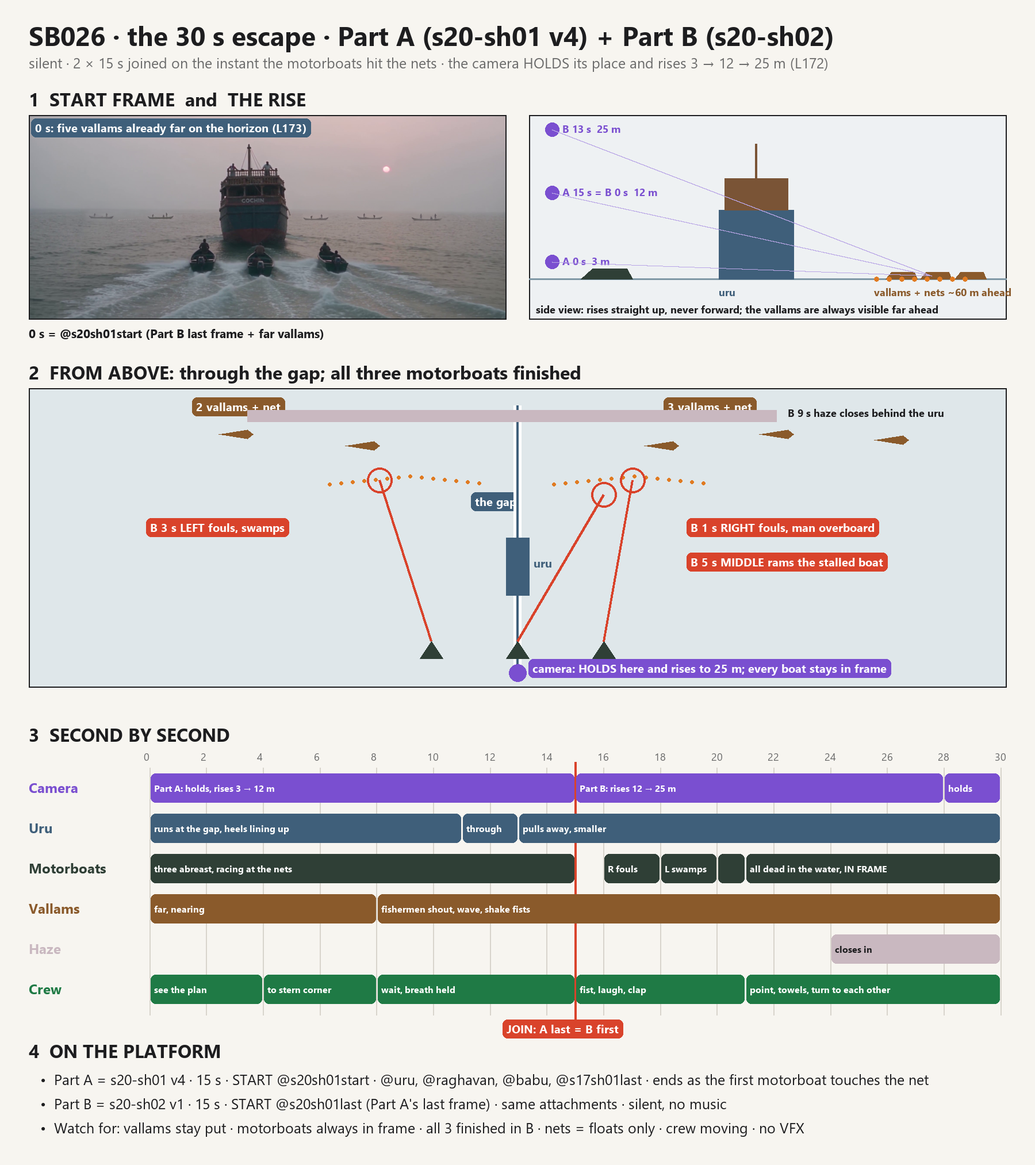
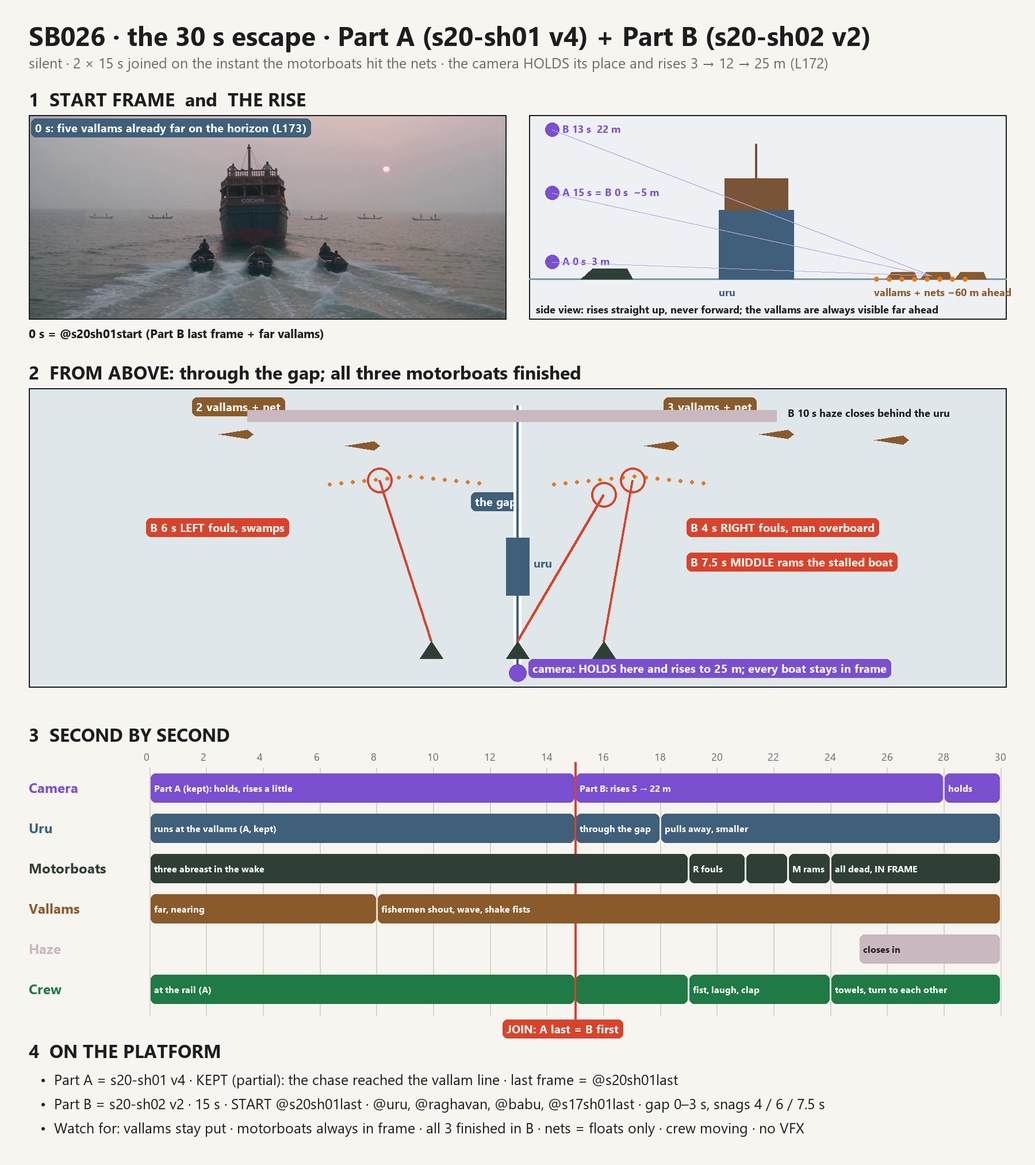
Ranjith: shot: s20-sh02 v2 (Part B fitted to Part A's last frame: gap 0-3 s, snags 4/6/7.5 s)

diff --git a/tools/shotsheets/s20-run-30s.py b/tools/shotsheets/s20-run-30s.py
@@ -10,7 +10,7 @@ def tag(xy, text, col, f=None):
     f = f or F(20, True); x, y = xy; tw = d.textlength(text, font=f)
     d.rounded_rectangle([x - 6, y - 4, x + tw + 8, y + 28], 8, fill=col); d.text((x + 1, y - 2), text, font=f, fill="white")
 
-d.text((50, 30), "SB026 · the 30 s escape · Part A (s20-sh01 v4) + Part B (s20-sh02)", font=F(46, True), fill=INK)
+d.text((50, 30), "SB026 · the 30 s escape · Part A (s20-sh01 v4) + Part B (s20-sh02 v2)", font=F(46, True), fill=INK)
 d.text((50, 92), "silent · 2 × 15 s joined on the instant the motorboats hit the nets · the camera HOLDS its place and rises 3 → 12 → 25 m (L172)", font=F(25), fill=GREY)
 
 # 1 start frame + side view of the rise-over reveal
@@ -31,7 +31,7 @@ d.rectangle([sx + 330, sea - 120, sx + 460, sea], fill=URU); d.rectangle([sx + 3
 d.line([sx + 395, sea - 175, sx + 395, sea - 235], fill="#7a5436", width=4)
 for k in range(3): d.polygon([(sx + 620 + k * 60, sea), (sx + 630 + k * 60, sea - 12), (sx + 670 + k * 60, sea - 12), (sx + 675 + k * 60, sea)], fill=VAL)
 for k in range(8): d.ellipse([sx + 600 + k * 22, sea - 4, sx + 608 + k * 22, sea + 4], fill=NET)
-for (cx, cy, lab) in [(sx + 40, sea - 30, "A 0 s  3 m"), (sx + 40, sea - 150, "A 15 s = B 0 s  12 m"), (sx + 40, sea - 260, "B 13 s  25 m")]:
+for (cx, cy, lab) in [(sx + 40, sea - 30, "A 0 s  3 m"), (sx + 40, sea - 150, "A 15 s = B 0 s  ~5 m"), (sx + 40, sea - 260, "B 13 s  22 m")]:
     d.ellipse([cx - 12, cy - 12, cx + 12, cy + 12], fill=CAM); d.text((cx + 18, cy - 14), lab, font=F(18, True), fill=CAM)
     d.line([cx, cy, sx + 700, sea - 6], fill="#b9a6e6", width=2)
 d.text((sx + 12, sy + sh - 30), "side view: rises straight up, never forward; the vallams are always visible far ahead", font=F(18, True), fill=INK)
@@ -54,26 +54,26 @@ tag((cx - 75, my + 185), "the gap", URU)
 d.line([(cx, my + mh - 30), (cx, my + 30)], fill="#ffffff", width=14); d.line([(cx, my + mh - 30), (cx, my + 30)], fill=URU, width=4)
 d.rectangle([cx - 20, my + 260, cx + 20, my + 360], fill=URU); d.text((cx + 28, my + 290), "uru", font=F(20, True), fill=URU)
 # three motorboats abreast and where they end
-for bx, ex, ey, lab, t_ in [(cx - 150, cx - 240, my + 160, "B 3 s LEFT fouls, swamps", (cx - 640, my + 230)),
-                            (cx + 150, cx + 200, my + 160, "B 1 s RIGHT fouls, man overboard", (cx + 300, my + 230)),
-                            (cx, cx + 150, my + 185, "B 5 s MIDDLE rams the stalled boat", (cx + 300, my + 290))]:
+for bx, ex, ey, lab, t_ in [(cx - 150, cx - 240, my + 160, "B 6 s LEFT fouls, swamps", (cx - 640, my + 230)),
+                            (cx + 150, cx + 200, my + 160, "B 4 s RIGHT fouls, man overboard", (cx + 300, my + 230)),
+                            (cx, cx + 150, my + 185, "B 7.5 s MIDDLE rams the stalled boat", (cx + 300, my + 290))]:
     d.polygon([(bx - 20, my + 470), (bx, my + 440), (bx + 20, my + 470)], fill=MOT)
     d.line([(bx, my + 440), (ex, ey)], fill=JOIN, width=4); d.ellipse([ex - 22, ey - 22, ex + 22, ey + 22], outline=JOIN, width=4)
     tag(t_, lab, JOIN)
 d.rectangle([mx + 380, my + 38, mx + 1300, my + 58], fill=HAZE)
-d.text((mx + 1320, my + 30), "B 9 s haze closes behind the uru", font=F(18, True), fill=INK)
+d.text((mx + 1320, my + 30), "B 10 s haze closes behind the uru", font=F(18, True), fill=INK)
 d.ellipse([cx - 15, my + mh - 40, cx + 15, my + mh - 10], fill=CAM); tag((cx + 25, my + mh - 45), "camera: HOLDS here and rises to 25 m; every boat stays in frame", CAM)
 
 # 3 timeline
 y2 = my + mh + 60
 d.text((50, y2), "3  SECOND BY SECOND", font=F(32, True), fill=INK)
 tx, tw_ = 260, 1480; ty = y2 + 80; S = 30
-rows = [("Camera", CAM, [(0, 15, "Part A: holds, rises 3 → 12 m"), (15, 28, "Part B: rises 12 → 25 m"), (28, 30, "holds")]),
-        ("Uru", URU, [(0, 11, "runs at the gap, heels lining up"), (11, 13, "through"), (13, 30, "pulls away, smaller")]),
-        ("Motorboats", MOT, [(0, 15, "three abreast, racing at the nets"), (16, 18, "R fouls"), (18, 20, "L swamps"), (20, 21, "M rams"), (21, 30, "all dead in the water, IN FRAME")]),
+rows = [("Camera", CAM, [(0, 15, "Part A (kept): holds, rises a little"), (15, 28, "Part B: rises 5 → 22 m"), (28, 30, "holds")]),
+        ("Uru", URU, [(0, 15, "runs at the vallams (A, kept)"), (15, 18, "through the gap"), (18, 30, "pulls away, smaller")]),
+        ("Motorboats", MOT, [(0, 19, "three abreast in the wake"), (19, 21, "R fouls"), (21, 22.5, "L swamps"), (22.5, 24, "M rams"), (24, 30, "all dead, IN FRAME")]),
         ("Vallams", VAL, [(0, 8, "far, nearing"), (8, 30, "fishermen shout, wave, shake fists")]),
-        ("Haze", HAZE, [(24, 30, "closes in")]),
-        ("Crew", "#1f7a45", [(0, 4, "see the plan"), (4, 8, "to stern corner"), (8, 15, "wait, breath held"), (15, 21, "fist, laugh, clap"), (21, 30, "point, towels, turn to each other")])]
+        ("Haze", HAZE, [(25, 30, "closes in")]),
+        ("Crew", "#1f7a45", [(0, 15, "at the rail (A)"), (15, 19, "stern corner, breath held"), (19, 24, "fist, laugh, clap"), (24, 30, "towels, turn to each other")])]
 xj = tx + tw_ * 15 / S
 for sec in range(0, 31, 2):
     x = tx + tw_ * sec / S; d.line([x, ty, x, ty + 70 * len(rows) + 10], fill="#d8d4cc", width=2); d.text((x - 10, ty - 32), f"{sec}", font=F(18), fill=GREY)
@@ -89,8 +89,8 @@ for i, (lab, col, segs) in enumerate(rows):
 # 4 platform
 y3 = ty + 70 * len(rows) + 50
 d.text((50, y3), "4  ON THE PLATFORM", font=F(32, True), fill=INK)
-lines = ["Part A = s20-sh01 v4 · 15 s · START @s20sh01start · @uru, @raghavan, @babu, @s17sh01last · ends as the first motorboat touches the net",
-         "Part B = s20-sh02 v1 · 15 s · START @s20sh01last (Part A's last frame) · same attachments · silent, no music",
+lines = ["Part A = s20-sh01 v4 · KEPT (partial): the chase reached the vallam line · last frame = @s20sh01last",
+         "Part B = s20-sh02 v2 · 15 s · START @s20sh01last · @uru, @raghavan, @babu, @s17sh01last · gap 0–3 s, snags 4 / 6 / 7.5 s",
          "Watch for: vallams stay put · motorboats always in frame · all 3 finished in B · nets = floats only · crew moving · no VFX"]
 for i, t in enumerate(lines): d.text((70, y3 + 55 + i * 42), "•  " + t, font=F(25), fill=INK)
 im = im.crop((0, 0, W, y3 + 55 + len(lines) * 42 + 40))

diff --git a/scenes/showreel/s20-sh02.md b/scenes/showreel/s20-sh02.md
@@ -1,6 +1,7 @@
-# s20-sh02 · SB026 (Ref 20) — Clear of pursuit, PART B of the 30 s escape: the motorboats are finished (silent) · 15 s · v1
-Status: **ready (Ranjith, 2026-11-23)** · silent · starts on Part A's last frame `@s20sh01last` (saved when Part A is generated)
+# s20-sh02 · SB026 (Ref 20) — Clear of pursuit, PART B of the 30 s escape: the motorboats are finished (silent) · 15 s · v2
+Status: **ready (Ranjith, 2026-11-23)** · silent · starts on Part A's last frame `@s20sh01last` (`approved/sb026-clear/s20-sh01-last.png`)
 Created by: Ranjith
+v2 (Ranjith, 2026-11-23): fitted to Part A's real last frame (`@s20sh01last`): Part A ended with the uru only reaching the vallam line, about 5 m up, the motorboats still in its wake; so Part B now opens with the uru threading the gap (0–3 s), then the three snags at 4 s, 6 s and 7.5 s, all three dead in the water from 9 s, haze from 10 s; the camera rises 5 m → 22 m.
 30 s run (Ranjith, 2026-11-23, "Make it 2 × 15 s"): Part A = `s20-sh01.md` v4 (the run at the nets; ends as the right-hand motorboat's bow touches its float line); Part B = this file: the right-hand motorboat fouls and a man goes overboard, the left-hand one swamps, the middle one rams the stalled boat; all three lie dead in the water and cannot follow (Ranjith: "they should sink or they should fall, so that they dont come back and follow"); the uru pulls away into the haze.
 Camera (Ranjith: "Use this camera move"): the same hold-and-rise continued from Part A, 12 m → 25 m, 28mm, never forward (L172).
 Scene emotion: none (silent shot).
@@ -10,41 +11,41 @@ Left out: `@antony20`, `@aashaan` (not visible from astern and above).
 Attach folder: `scenes/showreel/attach/s20-sh02/`
 Storyboard: `scenes/showreel/storyboards/s20-run-30s-clear.png` (never attached)
 Next: the SB026 dialogue, s20-sh03 to s20-sh06.
-Edit note (music): the chase score peaks on the first snag at about 1 s and falls away into the haze.
+Edit note (music): the chase score peaks on the first snag at about 4 s and falls away into the haze.
 
 ## Prompt
 ```text
 SCENE CONTEXT
-Dawn, 1998, open sea in Sri Lankan waters, the instant after the uru has slipped through the narrow gap between the fishermen's nets. The three motorboats chasing it, three abreast and too wide for the gap, hit the nets at full speed and are finished one after another, in plain sight: their propellers foul, their engines die, one is swamped and settles low in the water, a man is thrown into the sea, one rams another. They lie dead in the water and cannot follow. The uru pulls away and the haze closes behind it. One continuous shot, 15 seconds, starting exactly on the start frame. No one speaks.
+Dawn, 1998, open sea in Sri Lankan waters. The uru, three motorboats close in its wake, has reached the line of five fishing vallams with their nets out, two to the left and three to the right. In the first seconds the uru threads the narrow gap between the net ends; the three motorboats, three abreast and too wide for the gap, hit the nets at full speed and are finished one after another, in plain sight: their propellers foul, their engines die, one is swamped and settles low in the water, a man is thrown into the sea, one rams another. They lie dead in the water and cannot follow. The uru pulls away and the haze closes behind it. One continuous shot, 15 seconds, starting exactly on the start frame. No one speaks.
 
 MEMORY
 Place: the open sea at dawn, calm grey-pink with a low swell, the horizon level and hazy; a dull round red sun low at the right.
-The uru: our uru, seen from behind and above, just through the gap and pulling away: the weathered blue-grey hull with the rust-red lower hull, COCHIN in white on the dark band across the stern, the carved two-level deckhouse with its turned-post balustrade and small top deck, one mast with its stays; it sits low and heavy, its propeller and rudder under the water; about three motorboat lengths long.
-The motorboats: exactly three open motorboats, about 8 m long, dark hulls, one outboard engine each, two men in each, three abreast behind the uru, at the float lines.
-The vallams and nets: exactly five small wooden fishing vallams, plain open canoes about 9 m long with no frames, no poles and no masts, two or three fishermen standing in each, two to the left and three to the right of the gap the uru has just passed; from each a flat drift net lies in the water, seen only as a curved line of small white and orange floats. No lift nets, no frames. They stay where they are.
-People: Raghavan and Babu at the stern corner of the uru's top-deck rail, small, leaning out and looking back; the men in the motorboats; the fishermen in the vallams.
-Light: hazy pink-grey dawn, soft daylight about 5800K, the low red sun; from about 9s a low bank of white-pink haze drifting across the sea.
-FIRST FRAME (0.0s): exactly the start frame, the instant Part A ends: seen from about 12 m up behind the motorboats, the uru just through the gap between the net ends, Raghavan and Babu leaning out at the stern corner of the top-deck rail, the three motorboats three abreast at the float lines, the right-hand one's bow touching its float line, the five vallams with their fishermen on either side of the gap.
+The uru: our uru, seen from behind and above, at the gap and then pulling away: the weathered blue-grey hull with the rust-red lower hull, COCHIN in white on the dark band across the stern, the carved two-level deckhouse with its turned-post balustrade and small top deck, one mast with its stays; it sits low and heavy, its propeller and rudder under the water; about three motorboat lengths long.
+The motorboats: exactly three open motorboats, about 8 m long, dark hulls, one outboard engine each, two men in each, three abreast about 15 m behind the uru, in its wake.
+The vallams and nets: exactly five small wooden fishing vallams, plain open canoes about 9 m long with no frames, no poles and no masts, two or three fishermen standing in each, two to the left and three to the right, level with the uru's stern in the start frame; from each a flat drift net lies in the water, seen only as a curved line of small white and orange floats reaching across toward the uru's course, faint in the start frame and clearer as the boats reach them; the gap between the nearest net ends is only a little wider than the uru. No lift nets, no frames. They stay where they are.
+People: Raghavan and Babu at the uru's top-deck rail, small, looking back at the motorboats; the men in the motorboats; the fishermen in the vallams.
+Light: hazy pink-grey dawn, soft daylight about 5800K, the low red sun; from about 10s a low bank of white-pink haze drifting across the sea.
+FIRST FRAME (0.0s): exactly the start frame, the instant Part A ends: seen from about 5 m up behind the motorboats, the uru's stern with COCHIN in the middle, Raghavan and Babu at the top-deck rail, the three motorboats three abreast in its wake in the lower half, the five vallams on either side of the uru, two left and three right, with faint float lines, the red sun at the right.
 
 ACTIVE REFERENCES
-@s20sh01last (start frame, 0.0s): the exact first frame, the last frame of Part A: the uru just through the gap, the three motorboats at the float lines, the five vallams either side, Raghavan and Babu at the stern corner of the rail, the hazy pink-grey sea. Everything starts exactly as in this image.
+@s20sh01last (start frame, 0.0s): the exact first frame, the last frame of Part A: the uru from astern with COCHIN on the stern, Raghavan and Babu at the top-deck rail, the three motorboats three abreast in its wake, the five vallams either side of it (two left, three right) with faint float lines, the hazy pink-grey sea and the low red sun at the right. Everything starts exactly as in this image, and the vallams stay where they are.
 @uru (full, 0.0s–15.0s): our uru exactly as on this sheet: the weathered blue-grey wooden hull with rust streaks, the rust-red lower hull, the carved two-level deckhouse with turned-post balustrades and the small top deck, one mast, the dark blue band with COCHIN on the stern; about three motorboat lengths long, never bigger; its propeller and rudder under the water. 100% matches the reference.
-@raghavan (full, 0.0s–15.0s): Raghavan at the stern corner of the top-deck rail, the left of the two, small in the frame: wiry, about 60, grey hair, white vest, the red-and-white checked towel round his neck. 100% matches the reference.
+@raghavan (full, 0.0s–15.0s): Raghavan at the top-deck rail, the left of the two, small in the frame: wiry, about 60, grey hair, white vest, the red-and-white checked towel round his neck. 100% matches the reference.
 @babu (full, 0.0s–15.0s): Babu beside him, the right of the two, small in the frame: heavy-set, about 40, the red-and-white checked towel tied on his head, off-white half-sleeve shirt. 100% matches the reference.
 @s17sh01last (reference for continuity, 0.0s–15.0s): the approved chase frame: the open motorboats with two men each, the calm hazy pink-grey sea and the round red sun. Take the boats, the men, the sea and the light from it, not its camera angle. 100% matches the reference.
 
 THE MOTORBOATS ARE FINISHED (most important)
-All three motorboats are put out of the chase for good, in plain sight, the uru, the motorboats and the vallams all in frame together. At 1.0s the right-hand motorboat runs over its float line: its propeller wraps in the net with a burst of white water, the engine chokes and dies, the boat slews sideways and stops dead, and one of its two men is thrown over the side into the sea, surfacing and grabbing the gunwale. At 3.0s the left-hand motorboat cuts across the left-hand float line: its propeller fouls, the engine dies, the boat stops so hard that its low stern dips under and the sea pours in over the transom; it settles low in the water, half swamped, its two men bailing with their hands. At 5.0s the middle motorboat, swerving to miss the stalled right-hand boat, hits its stern with a hollow knock and both its men pitch forward; its outboard kicks up and stalls, and it drifts tangled against the other boat. From 6.0s all three lie dead in the water among the floats, engines silent, men in the water and in the swamped boat; none can follow. The uru, untouched, pulls steadily away beyond the vallams, the gap growing from about 25 m to about 90 m. The fishermen shout and wave their arms at the motorboats.
+All three motorboats are put out of the chase for good, in plain sight, the uru, the motorboats and the vallams all in frame together. From 0.0s to 3.0s the uru threads the gap between the net ends, about 1 m from the floats on each side, untouched, the floats bobbing in its bow wave. At 4.0s the right-hand motorboat runs over its float line: its propeller wraps in the net with a burst of white water, the engine chokes and dies, the boat slews sideways and stops dead, and one of its two men is thrown over the side into the sea, surfacing and grabbing the gunwale. At 6.0s the left-hand motorboat cuts across the left-hand float line: its propeller fouls, the engine dies, the boat stops so hard that its low stern dips under and the sea pours in over the transom; it settles low in the water, half swamped, its two men bailing with their hands. At 7.5s the middle motorboat, swerving to miss the stalled right-hand boat, hits its stern with a hollow knock and both its men pitch forward; its outboard kicks up and stalls, and it drifts tangled against the other boat. From 9.0s all three lie dead in the water among the floats, engines silent, men in the water and in the swamped boat; none can follow. The uru, untouched, pulls steadily away beyond the vallams, the gap growing from about 25 m to about 90 m. The fishermen shout and wave their arms at the motorboats.
 
 FORMAT MODE
 One continuous shot, 15 seconds, real time, no cut, no slow motion, 21:9 cinematic. Runs the full 15 seconds.
 
 CAMERA AND ACTION
-The camera continues the same move from Part A: it holds its place over the sea, a 28mm lens, and keeps rising straight up and tilting down, smooth and steady, about 1 m per second, from about 12 m to about 25 m by 13.0s; it never moves forward and never passes the motorboats.
-0.0s to 3.0s — From the start frame: the right-hand motorboat fouls at 1.0s and a man goes over the side; at the stern corner Raghavan punches the air once with his right fist and slaps the rail; the fishermen shout.
-3.0s to 6.0s — The left-hand motorboat fouls and swamps at 3.0s; the middle one rams the stalled boat and stalls at 5.0s; Babu throws his head back and laughs once without words and claps Raghavan on the shoulder; Raghavan points down at the swamped boat, both leaning far out.
-6.0s to 10.0s — Rising higher, looking down and ahead: the three motorboats dead among the floats in the middle of the frame, one half swamped, its men bailing, the man in the water hauling himself back aboard by the gunwale, the fishermen in the nearest vallams standing and shaking their fists at them; the uru pulls away beyond the vallams, rolling gently; from 9.0s a low bank of white-pink haze begins to drift across between them.
-10.0s to 15.0s — High over the whole sea: the haze closes over the stranded motorboats, softening them to dim shapes; the uru, smaller, runs on clear toward the open sea; Raghavan and Babu turn to each other, Raghavan wiping his face with the towel from his neck, Babu pulling the towel off his head and waving it once back at the stranded motorboats; the shot ends with the uru clear beyond the haze.
+The camera continues the same move from Part A: it holds its place over the sea, a 28mm lens, and keeps rising straight up and tilting down, smooth and steady, about 1 m per second, from about 5 m to about 22 m by 13.0s; it never moves forward and never passes the motorboats.
+0.0s to 4.0s — From the start frame, rising: the uru slides through the gap between the net ends, the float lines now clear on either side of it; Raghavan and Babu hurry to the stern corner of the rail and bend over it, fists clenched, breath held, watching the motorboats race at the floats; the fishermen shout and wave. At 4.0s the right-hand motorboat fouls and a man goes over the side; Raghavan punches the air once with his right fist and slaps the rail.
+4.0s to 9.0s — The left-hand motorboat fouls and swamps at 6.0s; the middle one rams the stalled boat and stalls at 7.5s; Babu throws his head back and laughs once without words and claps Raghavan on the shoulder; Raghavan points down at the swamped boat, both leaning far out.
+9.0s to 12.0s — Rising higher, looking down and ahead: the three motorboats dead among the floats in the middle of the frame, one half swamped, its men bailing, the man in the water hauling himself back aboard by the gunwale, the fishermen in the nearest vallams standing and shaking their fists at them; the uru pulls away beyond the vallams, rolling gently; from 10.0s a low bank of white-pink haze begins to drift across between them.
+12.0s to 15.0s — High over the whole sea: the haze closes over the stranded motorboats, softening them to dim shapes; the uru, smaller, runs on clear toward the open sea; Raghavan and Babu turn to each other, Raghavan wiping his face with the towel from his neck, Babu pulling the towel off his head and waving it once back at the stranded motorboats; the shot ends with the uru clear beyond the haze.
 
 EYELINES
 Raghavan and Babu look back down at each motorboat as it is caught, then at each other; the men in the motorboats look at their fouled propellers and at the uru getting away; the fishermen look at the motorboats in their nets; nobody looks at the camera.
@@ -53,7 +54,7 @@ ACTING & MICRO-EXPRESSION
 Seen small and from above, bodies carry it: the motorboat men thrown forward, one into the sea, the others grabbing the sides and bailing; the middle boat's driver hauling the tiller over too late; the fishermen standing, shaking fists, angry at the boats in their nets; Raghavan and Babu release the held breath: the fist, the slap on the rail, the laugh, the clap on the shoulder, the pointing, the towels. Restrained faces, big clear bodies.
 
 CAPTURE IMPERFECTIONS
-A slight sway as the camera rises in the sea wind; 1.2s the white water of the first snag catches the light; 3.1s a sheet of water over the swamping stern; 5.1s the knock of the two hulls jolts both boats; 10.0s a slight focus breath as the haze arrives.
+A slight sway as the camera rises in the sea wind; 2.0s the floats flash white in the uru's bow wave; 4.2s the white water of the first snag catches the light; 6.1s a sheet of water over the swamping stern; 7.6s the knock of the two hulls jolts both boats; 10.0s a slight focus breath as the haze arrives.
 
 REAL-WORLD PHYSICS
 The uru, about 30 tonnes of wood, moves at about 13 km/h, rolling slowly about 3 degrees on the swell every 4 to 5 seconds, its mast swaying; Raghavan and Babu sway with it, hands on the rail. The motorboats, each about 2 tonnes, hit the nets at about 20 km/h; a propeller wrapped in a net stalls the engine at once, the stern kicks round and the boat slews and stops, white water boiling at the stern, the float line dragging and bunching around it. The sudden stop throws a standing man forward over the gunwale; a low-sided boat stopped dead with two men aft dips its stern and takes water over the transom, settling until only its gunwales show. The middle boat, at speed, knocks into the stalled boat's stern and both rock hard. The vallams rock in the wakes; the floats bob and drag. Because the camera holds its place and rises, the uru grows smaller as it pulls away. The haze is a low white-pink bank about 5 m high drifting across at walking speed. Wind about 15 km/h lifts the men's towels and hair. Nothing moves by itself; every movement has a cause.
@@ -65,7 +66,7 @@ LIGHTING
 Soft hazy pink-grey dawn, about 5800K, the dull red sun low at the right, the white spray and wakes bright but never blown out, the haze glowing pale pink; no golden light.
 
 AUDIO
-Sound effects only — natural on-location sound, the soundtrack carries no music. No music at all: no score, no background music, no song, no humming, and no cinematic sound design: no riser, no whoosh, no swell. At 1.0s an outboard choking off into a stall with a thrash of water and a splash as a man goes over; at 3.0s a second engine dying and the gush of water over a stern; at 5.0s a hollow wooden knock of hull on hull and the third engine stalling; then only wind, the slap of water, the fishermen's distant indistinct shouts with no words heard, and the uru's low engine pulling away into the haze.
+Sound effects only — natural on-location sound, the soundtrack carries no music. No music at all: no score, no background music, no song, no humming, and no cinematic sound design: no riser, no whoosh, no swell. The rush of the uru's bow wave past the floats; at 4.0s an outboard choking off into a stall with a thrash of water and a splash as a man goes over; at 6.0s a second engine dying and the gush of water over a stern; at 7.5s a hollow wooden knock of hull on hull and the third engine stalling; then only wind, the slap of water, the fishermen's distant indistinct shouts with no words heard, and the uru's low engine pulling away into the haze.
 No one speaks: no dialogue, no voices, no words.
 
 STYLE
@@ -75,7 +76,7 @@ CONSTRAINTS
 The shot starts exactly on the start frame; no new boat appears and the vallams never move to new places or rise out of the water. The camera never moves forward and never passes the motorboats; the uru, all three motorboats and the vallams stay in frame together to the end. Exactly one uru, exactly three motorboats (two men each), exactly five vallams (plain canoes, no frames or poles), exactly two men at the top-deck rail (Raghavan and Babu). The nets are flat drift nets seen only as float lines on the water. All three motorboats end stopped among the nets; none follows the uru. Nobody is hurt badly: the man in the water climbs back. The uru stays about three motorboat lengths long, never bigger, its propeller and rudder under water. Only COCHIN on the stern as writing; no flags, no numbers, no logos, no weapons, no gunfire, no fire, no explosion, no Navy, no land. No one speaks. No English words, no subtitles. No cut, no zoom.
 
 POSITIVE LOCKS
-Starts on the start frame. The camera holds its place and keeps rising to about 25 m, tilting down. The right-hand motorboat fouls and a man goes overboard at 1.0s; the left-hand one fouls and swamps at 3.0s; the middle one rams the stalled boat and stalls at 5.0s; from 6.0s all three lie dead in the water and cannot follow; the uru pulls away; haze from 9.0s. Raghavan and Babu move the whole time: the fist, the laugh, the clap, the pointing, the towels. Everyone moving the whole time. Runs the full 15 seconds.
+Starts on the start frame. The camera holds its place and keeps rising to about 22 m, tilting down. The uru threads the gap from 0.0s to 3.0s. The right-hand motorboat fouls and a man goes overboard at 4.0s; the left-hand one fouls and swamps at 6.0s; the middle one rams the stalled boat and stalls at 7.5s; from 9.0s all three lie dead in the water and cannot follow; the uru pulls away; haze from 10.0s. Raghavan and Babu move the whole time: the fist, the laugh, the clap, the pointing, the towels. Everyone moving the whole time. Runs the full 15 seconds.
 
 INTENT: The chase ends for good: the fishermen's nets catch all three pursuers in plain sight, and the uru runs on into the haze.
 ```
@@ -88,6 +89,6 @@ INTENT: The chase ends for good: the fishermen's nets catch all three pursuers i
 - Attach: `@s20sh01last` (start), `@uru` (full), `@raghavan` (full), `@babu` (full), `@s17sh01last` (reference)
 
 ## QC
-PROMPT QA — s20-sh02 v1 (Part B) · Score 100/100 · Ready (qc_panel.py 100). Starts on Part A's last frame; all three motorboats finished in plain sight (man overboard, swamped, rammed), none can follow; no weapons or fire; L172 one frame, camera holds and rises; L173 no new boat appears; Raghavan and Babu moving all through (L83); no-VFX line (195). `@s20sh01last` to be registered when Part A is generated.
+PROMPT QA — s20-sh02 v1 (Part B) · Score 100/100 · Ready (qc_panel.py 100). Starts on Part A's last frame; all three motorboats finished in plain sight (man overboard, swamped, rammed), none can follow; no weapons or fire; L172 one frame, camera holds and rises; L173 no new boat appears; Raghavan and Babu moving all through (L83); no-VFX line (195). `@s20sh01last` registered; Part B v2 fitted to it (uru threads the gap 0–3 s, snags at 4, 6, 7.5 s).
 
 ## Generation results

diff --git a/scenes/showreel/retired/s20-sh02-v1.md b/scenes/showreel/retired/s20-sh02-v1.md
@@ -1,0 +1,93 @@
+# s20-sh02 · SB026 (Ref 20) — Clear of pursuit, PART B of the 30 s escape: the motorboats are finished (silent) · 15 s · v1
+Status: **ready (Ranjith, 2026-11-23)** · silent · starts on Part A's last frame `@s20sh01last` (saved when Part A is generated)
+Created by: Ranjith
+30 s run (Ranjith, 2026-11-23, "Make it 2 × 15 s"): Part A = `s20-sh01.md` v4 (the run at the nets; ends as the right-hand motorboat's bow touches its float line); Part B = this file: the right-hand motorboat fouls and a man goes overboard, the left-hand one swamps, the middle one rams the stalled boat; all three lie dead in the water and cannot follow (Ranjith: "they should sink or they should fall, so that they dont come back and follow"); the uru pulls away into the haze.
+Camera (Ranjith: "Use this camera move"): the same hold-and-rise continued from Part A, 12 m → 25 m, 28mm, never forward (L172).
+Scene emotion: none (silent shot).
+Lessons applied: L173, L172, L83 (Raghavan and Babu moving all through), L141, L159, L166, L168, L169, L170, checklist 190–197 (195: no VFX look); start on the previous end frame (Ranjith).
+Attach: `@s20sh01last` (start image), `@uru` (full), `@raghavan` (full, small), `@babu` (full, small), `@s17sh01last` (reference: boats, men, sea and light). No end image. Remove every other attachment (L88). **15 s.** 21:9.
+Left out: `@antony20`, `@aashaan` (not visible from astern and above).
+Attach folder: `scenes/showreel/attach/s20-sh02/`
+Storyboard: `scenes/showreel/storyboards/s20-run-30s-clear.png` (never attached)
+Next: the SB026 dialogue, s20-sh03 to s20-sh06.
+Edit note (music): the chase score peaks on the first snag at about 1 s and falls away into the haze.
+
+## Prompt
+```text
+SCENE CONTEXT
+Dawn, 1998, open sea in Sri Lankan waters, the instant after the uru has slipped through the narrow gap between the fishermen's nets. The three motorboats chasing it, three abreast and too wide for the gap, hit the nets at full speed and are finished one after another, in plain sight: their propellers foul, their engines die, one is swamped and settles low in the water, a man is thrown into the sea, one rams another. They lie dead in the water and cannot follow. The uru pulls away and the haze closes behind it. One continuous shot, 15 seconds, starting exactly on the start frame. No one speaks.
+
+MEMORY
+Place: the open sea at dawn, calm grey-pink with a low swell, the horizon level and hazy; a dull round red sun low at the right.
+The uru: our uru, seen from behind and above, just through the gap and pulling away: the weathered blue-grey hull with the rust-red lower hull, COCHIN in white on the dark band across the stern, the carved two-level deckhouse with its turned-post balustrade and small top deck, one mast with its stays; it sits low and heavy, its propeller and rudder under the water; about three motorboat lengths long.
+The motorboats: exactly three open motorboats, about 8 m long, dark hulls, one outboard engine each, two men in each, three abreast behind the uru, at the float lines.
+The vallams and nets: exactly five small wooden fishing vallams, plain open canoes about 9 m long with no frames, no poles and no masts, two or three fishermen standing in each, two to the left and three to the right of the gap the uru has just passed; from each a flat drift net lies in the water, seen only as a curved line of small white and orange floats. No lift nets, no frames. They stay where they are.
+People: Raghavan and Babu at the stern corner of the uru's top-deck rail, small, leaning out and looking back; the men in the motorboats; the fishermen in the vallams.
+Light: hazy pink-grey dawn, soft daylight about 5800K, the low red sun; from about 9s a low bank of white-pink haze drifting across the sea.
+FIRST FRAME (0.0s): exactly the start frame, the instant Part A ends: seen from about 12 m up behind the motorboats, the uru just through the gap between the net ends, Raghavan and Babu leaning out at the stern corner of the top-deck rail, the three motorboats three abreast at the float lines, the right-hand one's bow touching its float line, the five vallams with their fishermen on either side of the gap.
+
+ACTIVE REFERENCES
+@s20sh01last (start frame, 0.0s): the exact first frame, the last frame of Part A: the uru just through the gap, the three motorboats at the float lines, the five vallams either side, Raghavan and Babu at the stern corner of the rail, the hazy pink-grey sea. Everything starts exactly as in this image.
+@uru (full, 0.0s–15.0s): our uru exactly as on this sheet: the weathered blue-grey wooden hull with rust streaks, the rust-red lower hull, the carved two-level deckhouse with turned-post balustrades and the small top deck, one mast, the dark blue band with COCHIN on the stern; about three motorboat lengths long, never bigger; its propeller and rudder under the water. 100% matches the reference.
+@raghavan (full, 0.0s–15.0s): Raghavan at the stern corner of the top-deck rail, the left of the two, small in the frame: wiry, about 60, grey hair, white vest, the red-and-white checked towel round his neck. 100% matches the reference.
+@babu (full, 0.0s–15.0s): Babu beside him, the right of the two, small in the frame: heavy-set, about 40, the red-and-white checked towel tied on his head, off-white half-sleeve shirt. 100% matches the reference.
+@s17sh01last (reference for continuity, 0.0s–15.0s): the approved chase frame: the open motorboats with two men each, the calm hazy pink-grey sea and the round red sun. Take the boats, the men, the sea and the light from it, not its camera angle. 100% matches the reference.
+
+THE MOTORBOATS ARE FINISHED (most important)
+All three motorboats are put out of the chase for good, in plain sight, the uru, the motorboats and the vallams all in frame together. At 1.0s the right-hand motorboat runs over its float line: its propeller wraps in the net with a burst of white water, the engine chokes and dies, the boat slews sideways and stops dead, and one of its two men is thrown over the side into the sea, surfacing and grabbing the gunwale. At 3.0s the left-hand motorboat cuts across the left-hand float line: its propeller fouls, the engine dies, the boat stops so hard that its low stern dips under and the sea pours in over the transom; it settles low in the water, half swamped, its two men bailing with their hands. At 5.0s the middle motorboat, swerving to miss the stalled right-hand boat, hits its stern with a hollow knock and both its men pitch forward; its outboard kicks up and stalls, and it drifts tangled against the other boat. From 6.0s all three lie dead in the water among the floats, engines silent, men in the water and in the swamped boat; none can follow. The uru, untouched, pulls steadily away beyond the vallams, the gap growing from about 25 m to about 90 m. The fishermen shout and wave their arms at the motorboats.
+
+FORMAT MODE
+One continuous shot, 15 seconds, real time, no cut, no slow motion, 21:9 cinematic. Runs the full 15 seconds.
+
+CAMERA AND ACTION
+The camera continues the same move from Part A: it holds its place over the sea, a 28mm lens, and keeps rising straight up and tilting down, smooth and steady, about 1 m per second, from about 12 m to about 25 m by 13.0s; it never moves forward and never passes the motorboats.
+0.0s to 3.0s — From the start frame: the right-hand motorboat fouls at 1.0s and a man goes over the side; at the stern corner Raghavan punches the air once with his right fist and slaps the rail; the fishermen shout.
+3.0s to 6.0s — The left-hand motorboat fouls and swamps at 3.0s; the middle one rams the stalled boat and stalls at 5.0s; Babu throws his head back and laughs once without words and claps Raghavan on the shoulder; Raghavan points down at the swamped boat, both leaning far out.
+6.0s to 10.0s — Rising higher, looking down and ahead: the three motorboats dead among the floats in the middle of the frame, one half swamped, its men bailing, the man in the water hauling himself back aboard by the gunwale, the fishermen in the nearest vallams standing and shaking their fists at them; the uru pulls away beyond the vallams, rolling gently; from 9.0s a low bank of white-pink haze begins to drift across between them.
+10.0s to 15.0s — High over the whole sea: the haze closes over the stranded motorboats, softening them to dim shapes; the uru, smaller, runs on clear toward the open sea; Raghavan and Babu turn to each other, Raghavan wiping his face with the towel from his neck, Babu pulling the towel off his head and waving it once back at the stranded motorboats; the shot ends with the uru clear beyond the haze.
+
+EYELINES
+Raghavan and Babu look back down at each motorboat as it is caught, then at each other; the men in the motorboats look at their fouled propellers and at the uru getting away; the fishermen look at the motorboats in their nets; nobody looks at the camera.
+
+ACTING & MICRO-EXPRESSION
+Seen small and from above, bodies carry it: the motorboat men thrown forward, one into the sea, the others grabbing the sides and bailing; the middle boat's driver hauling the tiller over too late; the fishermen standing, shaking fists, angry at the boats in their nets; Raghavan and Babu release the held breath: the fist, the slap on the rail, the laugh, the clap on the shoulder, the pointing, the towels. Restrained faces, big clear bodies.
+
+CAPTURE IMPERFECTIONS
+A slight sway as the camera rises in the sea wind; 1.2s the white water of the first snag catches the light; 3.1s a sheet of water over the swamping stern; 5.1s the knock of the two hulls jolts both boats; 10.0s a slight focus breath as the haze arrives.
+
+REAL-WORLD PHYSICS
+The uru, about 30 tonnes of wood, moves at about 13 km/h, rolling slowly about 3 degrees on the swell every 4 to 5 seconds, its mast swaying; Raghavan and Babu sway with it, hands on the rail. The motorboats, each about 2 tonnes, hit the nets at about 20 km/h; a propeller wrapped in a net stalls the engine at once, the stern kicks round and the boat slews and stops, white water boiling at the stern, the float line dragging and bunching around it. The sudden stop throws a standing man forward over the gunwale; a low-sided boat stopped dead with two men aft dips its stern and takes water over the transom, settling until only its gunwales show. The middle boat, at speed, knocks into the stalled boat's stern and both rock hard. The vallams rock in the wakes; the floats bob and drag. Because the camera holds its place and rises, the uru grows smaller as it pulls away. The haze is a low white-pink bank about 5 m high drifting across at walking speed. Wind about 15 km/h lifts the men's towels and hair. Nothing moves by itself; every movement has a cause.
+
+PERFORMANCE
+Urgent, real and loose, never stiff or mechanical; everybody keeps moving the whole time. The pursuers' crash and scramble, the fishermen's anger, the crew's release. No weapons, no fighting, no look into the lens.
+
+LIGHTING
+Soft hazy pink-grey dawn, about 5800K, the dull red sun low at the right, the white spray and wakes bright but never blown out, the haze glowing pale pink; no golden light.
+
+AUDIO
+Sound effects only — natural on-location sound, the soundtrack carries no music. No music at all: no score, no background music, no song, no humming, and no cinematic sound design: no riser, no whoosh, no swell. At 1.0s an outboard choking off into a stall with a thrash of water and a splash as a man goes over; at 3.0s a second engine dying and the gush of water over a stern; at 5.0s a hollow wooden knock of hull on hull and the third engine stalling; then only wind, the slap of water, the fishermen's distant indistinct shouts with no words heard, and the uru's low engine pulling away into the haze.
+No one speaks: no dialogue, no voices, no words.
+
+STYLE
+Photoreal 1998 Kerala period feature film, Every frame looks like real footage filmed on a real wooden boat at sea, never like VFX or CGI: real water with real foam, spray and reflections, real wood, real skin and cloth, every boat and person sitting in the same light and haze as the rest of the frame, with soft natural edges and real contact shadows; no composited or pasted-in look, no glowing outlines, no 3D-render or game look, no over-clean water, no digital smoke; the haze is real sea mist. 24fps, fine 35mm grain, gentle halation on the spray and the haze, real water texture, no smoothing. Shot on a Sony Venice 2 full-frame digital cinema camera: very wide dynamic range that holds the brightest light and the deepest shade in one frame; clean, low-noise shadows; soft, gradual highlight roll-off; accurate, natural colour with rich, true skin tones; gentle filmic contrast; fine, organic texture; no over-sharpening, no glossy or video look. Hazy pink-grey dawn.
+
+CONSTRAINTS
+The shot starts exactly on the start frame; no new boat appears and the vallams never move to new places or rise out of the water. The camera never moves forward and never passes the motorboats; the uru, all three motorboats and the vallams stay in frame together to the end. Exactly one uru, exactly three motorboats (two men each), exactly five vallams (plain canoes, no frames or poles), exactly two men at the top-deck rail (Raghavan and Babu). The nets are flat drift nets seen only as float lines on the water. All three motorboats end stopped among the nets; none follows the uru. Nobody is hurt badly: the man in the water climbs back. The uru stays about three motorboat lengths long, never bigger, its propeller and rudder under water. Only COCHIN on the stern as writing; no flags, no numbers, no logos, no weapons, no gunfire, no fire, no explosion, no Navy, no land. No one speaks. No English words, no subtitles. No cut, no zoom.
+
+POSITIVE LOCKS
+Starts on the start frame. The camera holds its place and keeps rising to about 25 m, tilting down. The right-hand motorboat fouls and a man goes overboard at 1.0s; the left-hand one fouls and swamps at 3.0s; the middle one rams the stalled boat and stalls at 5.0s; from 6.0s all three lie dead in the water and cannot follow; the uru pulls away; haze from 9.0s. Raghavan and Babu move the whole time: the fist, the laugh, the clap, the pointing, the towels. Everyone moving the whole time. Runs the full 15 seconds.
+
+INTENT: The chase ends for good: the fishermen's nets catch all three pursuers in plain sight, and the uru runs on into the haze.
+```
+
+## Settings
+- **Duration: 15 s**
+- Aspect ratio 21:9
+- Start image: `@s20sh01last` (Part A's last frame) · no end image
+- No dialogue (silent) · no music
+- Attach: `@s20sh01last` (start), `@uru` (full), `@raghavan` (full), `@babu` (full), `@s17sh01last` (reference)
+
+## QC
+PROMPT QA — s20-sh02 v1 (Part B) · Score 100/100 · Ready (qc_panel.py 100). Starts on Part A's last frame; all three motorboats finished in plain sight (man overboard, swamped, rammed), none can follow; no weapons or fire; L172 one frame, camera holds and rises; L173 no new boat appears; Raghavan and Babu moving all through (L83); no-VFX line (195). `@s20sh01last` to be registered when Part A is generated.
+
+## Generation results

diff --git a/scenes/showreel/attach/s20-sh02/README.md b/scenes/showreel/attach/s20-sh02/README.md
@@ -1,5 +1,5 @@
-# s20-sh02 v1 = PART B of the 30 s escape (silent, 15 s)
-- 00-START: Part A's last frame, `@s20sh01last` — save it here as 00-START-s20sh01last.png when Part A is generated
+# s20-sh02 v2 = PART B of the 30 s escape (silent, 15 s)
+- 00-START-s20sh01last.png → START IMAGE slot, @s20sh01last (Part A's last frame)
 - 01-uru.png → @uru (full)
 - 02-raghavan.png → @raghavan (full, small)
 - 03-babu.png → @babu (full, small)
